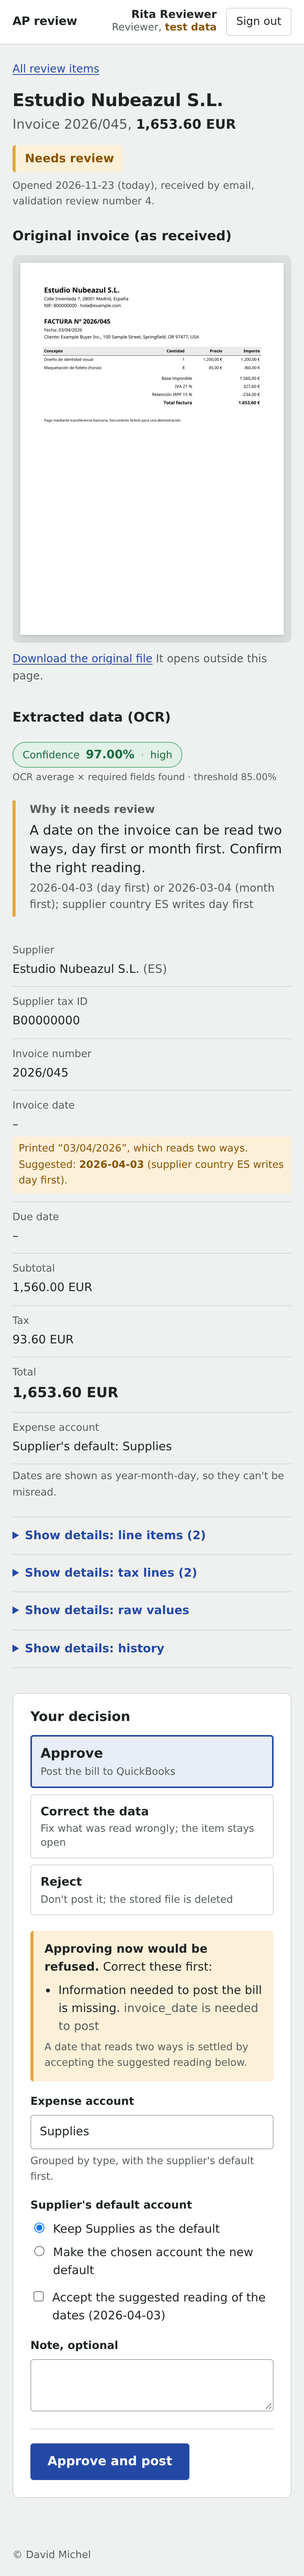
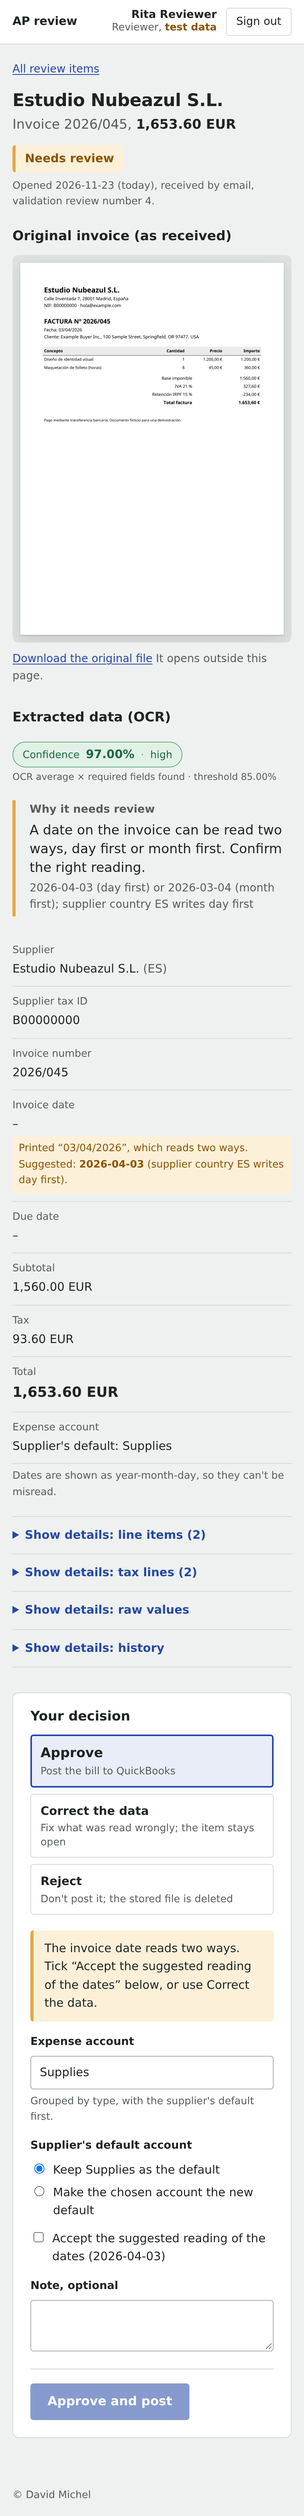
fix(review): no pre-filled account on possible fixed assets, dates accepted before approving
What the core decides, the security rules and the routes are unchanged.

- Possible fixed asset: the account starts empty ("Choose an expense
  account or a fixed asset account") instead of the supplier's default;
  the confirm button stays disabled until one is chosen. Without
  JavaScript the page refuses an approval with no account (422, nothing
  saved). One helper (forms.account_choice_required) drives both. Through
  the core's API an approval without an account still uses the default.
- Ambiguous dates: instead of "Approving now would be refused" next to an
  active button, the panel says to tick "Accept the suggested reading of
  the dates" or use Correct the data, and the button stays disabled until
  it is ticked. Without JavaScript the core refuses as before (409).
- The confirm button now waits for every field the chosen action needs
  (data-required-for), as well as for a chosen action.
- Screenshots retaken on the sample items.

diff --git a/services/core/app/web/templates/item.html b/services/core/app/web/templates/item.html
@@ -168,16 +168,22 @@
 
       {% if decide in item.actions %}
       <div class="fields fields-{{ decide }}">
-        {% if item.blockers %}
+        {# Blockers the suggested reading of the dates settles (a date left empty because it reads two ways) #}
+        {% set by_tick = inv.dates_ambiguous and inv.invoice_date_suggested %}
+        {% set date_blockers = item.blockers | selectattr("code", "equalto", "missing_field") | selectattr("field", "in", dates) | list if by_tick else [] %}
+        {% set other_blockers = item.blockers | reject("in", date_blockers) | list %}
+        {% if other_blockers %}
         <div class="note">
           <p><strong>Approving now would be refused.</strong> Correct these first:</p>
-          <ul>{% for b in item.blockers %}<li>{{ (b.code | explain).sentence }}{% if b.get("message") %} <span class="muted">{{ b.message }}</span>{% endif %}</li>{% endfor %}</ul>
-          {% if inv.dates_ambiguous and inv.invoice_date_suggested %}<p class="hint">A date that reads two ways is settled by accepting the suggested reading below.</p>{% endif %}
+          <ul>{% for b in other_blockers %}<li>{{ (b.code | explain).sentence }}{% if b.get("message") %} <span class="muted">{{ b.message }}</span>{% endif %}</li>{% endfor %}</ul>
         </div>
         {% endif %}
+        {% if date_blockers %}
+        <p class="note" id="dates-needed">The invoice date reads two ways. Tick “Accept the suggested reading of the dates” below, or use Correct the data.</p>
+        {% endif %}
         <label for="account_id">Expense account</label>
-        <select name="{{ decide }}.account_id" id="account_id" data-combobox aria-describedby="account-hint">
-          {% set chosen_account = inv.expense_account_id or (item.supplier_default_account.id if item.supplier_default_account else "") %}
+        <select name="{{ decide }}.account_id" id="account_id" data-combobox aria-describedby="account-hint"{% if choose_account %} data-required-for="{{ decide }}"{% endif %}>
+          {% set chosen_account = "" if choose_account else (inv.expense_account_id or (item.supplier_default_account.id if item.supplier_default_account else "")) %}
           {% if not chosen_account %}<option value="" selected>Choose an account</option>{% endif %}
           {% for label, group in account_groups %}
           <optgroup label="{{ label }}">
@@ -185,7 +191,7 @@
           </optgroup>
           {% endfor %}
         </select>
-        <p class="hint" id="account-hint">Grouped by type, with the supplier's default first.</p>
+        <p class="hint" id="account-hint">{% if choose_account %}Choose an expense account or a fixed asset account.{% else %}Grouped by type, with the supplier's default first.{% endif %}</p>
         <fieldset class="sub">
           <legend>Supplier's default account</legend>
           {% if item.supplier_default_account %}
@@ -197,7 +203,7 @@
           {% endif %}
         </fieldset>
         {% if inv.dates_ambiguous and inv.invoice_date_suggested %}
-        <label class="opt"><input type="checkbox" name="{{ decide }}.accept_suggested_dates" value="1"> Accept the suggested reading of the dates ({{ inv.invoice_date_suggested }})</label>
+        <label class="opt"><input type="checkbox" name="{{ decide }}.accept_suggested_dates" value="1"{% if date_blockers %} data-required-for="{{ decide }}" aria-describedby="dates-needed"{% endif %}> Accept the suggested reading of the dates ({{ inv.invoice_date_suggested }})</label>
         {% endif %}
         <label for="{{ decide }}-note">{{ "How was it confirmed? Required" if decide == "verify" else "Note, optional" }}</label>
         <textarea name="{{ decide }}.note" id="{{ decide }}-note" maxlength="1000" rows="2"></textarea>

diff --git a/services/core/app/web/static/app.js b/services/core/app/web/static/app.js
@@ -148,11 +148,18 @@ function accountCombobox(select) {
 document.addEventListener("DOMContentLoaded", () => {
   for (const select of document.querySelectorAll("select[data-combobox]")) accountCombobox(select);
 
-  // A panel without a chosen action (possible fraud: nothing is pre-selected) can't be confirmed.
-  // Without scripts the button stays enabled and the server refuses the empty choice.
+  // The confirm button waits for what the chosen action still needs: an action at all (possible
+  // fraud: nothing is pre-selected), and every field marked data-required-for="<action>" (an account
+  // to choose, the suggested dates to accept). Without scripts the button stays enabled and the
+  // server refuses what is missing.
+  const filled = (el) => (el.type === "checkbox" ? el.checked : el.value !== "");
   for (const button of document.querySelectorAll("button[data-needs-action]")) {
     const form = button.form;
-    const update = () => { button.disabled = !form.querySelector('input[name="action"]:checked'); };
+    const update = () => {
+      const chosen = form.querySelector('input[name="action"]:checked');
+      const needed = chosen ? [...form.querySelectorAll(`[data-required-for~="${chosen.value}"]`)] : [];
+      button.disabled = !chosen || !needed.every(filled);
+    };
     form.addEventListener("change", update);
     update();
   }

diff --git a/services/core/tests/test_review_page.py b/services/core/tests/test_review_page.py
@@ -466,3 +466,76 @@ def test_the_environment_defaults_to_production_and_takes_nothing_else(clean_db)
         WebSettings(
             ap_database_url=clean_db, review_listener="internal", review_origins=INTERNAL, review_environment="staging"
         )
+
+
+# =====================================================================================
+# What approving still needs: an account on a possible fixed asset, the dates accepted
+# =====================================================================================
+def account_select(page):
+    start = page.index('id="account_id"') - 60
+    return page[page.index("<select", start) : page.index("</select>", start)]
+
+
+def test_a_possible_fixed_asset_starts_with_no_account_chosen(samples):
+    c, _url, ids = samples  # Pellingham has a default account (Supplies): it isn't pre-filled here
+    page = page_of(c, ids["pellingham"])
+    select = account_select(page)
+    assert 'data-required-for="approve"' in select
+    assert '<option value="" selected>Choose an account</option>' in select
+    assert select.count("selected") == 1  # the placeholder only
+    assert "Choose an expense account or a fixed asset account." in page
+    assert '<button class="go" data-needs-action>' in page  # disabled by the script until chosen
+
+
+def test_other_items_keep_the_supplier_default_pre_filled(samples):
+    c, _url, ids = samples
+    select = account_select(page_of(c, ids["quillmoor"]))
+    assert '<option value="20" selected>Supplies</option>' in select and "data-required-for" not in select
+
+
+def test_approving_a_possible_fixed_asset_without_an_account_is_refused(samples):
+    c, url, ids = samples  # what a browser without scripts sends
+    data = {"csrf": csrf(c), "action": "approve", "approve.account_id": "", "approve.default": "keep"}
+    r = c.post(f"/items/{ids['pellingham']}", data=data)
+    assert r.status_code == 422
+    assert "Possible fixed asset: choose an expense account or a fixed asset account, then approve." in r.text
+    assert ("approve", "checked") in radios(r.text)
+    row = review_row(url, ids["pellingham"])
+    assert row["status"] == "open"
+    assert q(url, "SELECT expense_account_id FROM ap.invoices WHERE id = %s", row["invoice_id"])[0] == {
+        "expense_account_id": None
+    }
+
+
+def test_a_possible_fixed_asset_is_approved_on_the_account_chosen(samples):
+    c, url, ids = samples
+    data = {"csrf": csrf(c), "action": "approve", "approve.account_id": "40", "approve.default": "keep"}
+    assert c.post(f"/items/{ids['pellingham']}", data=data).status_code == 303
+    row = review_row(url, ids["pellingham"])
+    assert row["status"] == "approved" and row["decision"]["account_id"] == "40"
+    assert q(url, "SELECT 1 FROM ap.supplier_defaults WHERE expense_account_id = '40'") == []  # a one-off choice
+
+
+def test_ambiguous_dates_say_exactly_what_to_do(samples):
+    c, _url, ids = samples
+    page = page_of(c, ids["nubeazul"])
+    assert "Approving now would be refused" not in page
+    assert escape("Tick “Accept the suggested reading of the dates” below, or use Correct the data.") in page
+    found = re.search(r'<input type="checkbox" name="approve\.accept_suggested_dates"[^>]*>', page)
+    assert found
+    box = found.group(0)
+    assert 'data-required-for="approve"' in box and 'aria-describedby="dates-needed"' in box
+
+
+def test_ambiguous_dates_not_accepted_are_refused_and_accepted_are_approved(samples):
+    c, url, ids = samples
+    data = {"csrf": csrf(c), "action": "approve", "approve.account_id": "20", "approve.default": "keep"}
+    assert c.post(f"/items/{ids['nubeazul']}", data=data).status_code == 409  # the core's refusal
+    assert review_row(url, ids["nubeazul"])["status"] == "open"
+    r = c.post(f"/items/{ids['nubeazul']}", data=data | {"approve.accept_suggested_dates": "1"})
+    row = review_row(url, ids["nubeazul"])  # accepting a reading counts as a correction, then approved
+    assert r.status_code == 303 and row["status"] == "corrected"
+    assert q(url, "SELECT status, invoice_date::text FROM ap.invoices WHERE id = %s", row["invoice_id"])[0] == {
+        "status": "ready",
+        "invoice_date": "2026-04-03",
+    }

diff --git a/services/core/app/web/forms.py b/services/core/app/web/forms.py
@@ -21,6 +21,22 @@ class FormError(ValueError):
 
 
 ACTIONS: tuple[review.Action, ...] = get_args(review.Action)
+# Reasons for which the page asks the reviewer to pick the account themselves (no supplier default
+# pre-filled): an item that may be a fixed asset needs an explicit expense-or-asset choice
+ACCOUNT_CHOICE_REASONS = frozenset({"possible_capex"})
+NO_ACCOUNT_CHOSEN = (
+    "Possible fixed asset: choose an expense account or a fixed asset account, then approve. Nothing was saved."
+)
+
+
+def account_choice_required(item: dict[str, Any]) -> bool:
+    return bool({r["code"] for r in item["reasons"]} & ACCOUNT_CHOICE_REASONS)
+
+
+def require_account(form: FormData, item: dict[str, Any]) -> None:
+    """The page left the account empty on purpose: an approval must carry the reviewer's choice."""
+    if account_choice_required(item) and not text(form, "account_id"):
+        raise FormError(NO_ACCOUNT_CHOSEN)
 
 
 def chosen_action(form: FormData) -> review.Action:

diff --git a/services/core/app/web/main.py b/services/core/app/web/main.py
@@ -387,6 +387,7 @@ def _item_page(
         ),
         chosen=chosen,
         correctable=forms.CORRECTABLE,
+        choose_account=forms.account_choice_required(data),
         error=message.get("error"),
         done=message.get("done"),
     )
@@ -447,6 +448,7 @@ def _apply(conn: db.Conn, viewer: Viewer, review_id: int, action: review.Action,
         _, file_path = review.reject(conn, review_id, forms.rejection(form, viewer), viewer.scope)
         return file_path
     kind: Literal["approve", "verify"] = "verify" if action == "verify" else "approve"
+    forms.require_account(form, review.detail(conn, review_id, viewer.scope))
     review.approve(conn, review_id, forms.decision(form, viewer), kind, viewer.scope)
     return None
 

diff --git a/docs/review.md b/docs/review.md
@@ -59,7 +59,7 @@ A separate web process (`review-web` container) with only the browser routes. Ho
 - **Plain-language reasons:** [`app/web/reasons.py`](../services/core/app/web/reasons.py) is the only place that turns a reason code into words: a short label for the list badge, a sentence for the item page. The core's specific detail (e.g. which line costs too much) is shown under the sentence. A test scans the core's source and fails if a code has no sentence.
 - **Confidence badge** (display only, nothing stored changes): the item's confidence score (OCR page average × required fields found, the score the core routes on) as a percentage with two decimals. **Red** below the review threshold (`CONFIDENCE_THRESHOLD`, the same setting the core uses, so red always means "below the threshold"), **orange** from the threshold up to `REVIEW_CONFIDENCE_HIGH`, **green** from there. The badge also says it in words (high, close to the threshold, below the threshold), and the line under it says how the score is made and the threshold ("OCR average × required fields found · threshold 85.00%"). The raw OCR average alone is under **Show details: raw values** ("Raw OCR average"). Both values are provisional until the threshold is calibrated on the test set.
 - **One decision panel:** a single form offering only the actions the core allows on the item, **Approve** first and pre-selected. On a fraud item **nothing is pre-selected**: the fraud warning stands at the top of the panel, and the confirm button stays disabled until the reviewer picks **Verified with the supplier** or **Reject**. Without JavaScript the button can be pressed, and the server refuses a fraud submission with no action chosen, with a clear error and nothing saved. Choosing an action shows only its fields, then one confirm button. This works without JavaScript: CSS shows the chosen action's fields. The form posts every action's fields, named `<action>.<field>`. The server keeps only the chosen action's fields and decides exactly as on that action's own route (`POST /items/{id}/{action}`, kept as is). After a refused decision, the panel stays on the action tried.
-  - **Approve / Verified:** the expense account search box. Typing suggests matching accounts, grouped by type with the supplier's default first. It is keyboard-accessible: arrows to move, Enter to choose, Escape to cancel. Without JavaScript it is a plain grouped list. Then choose whether the account becomes the supplier's default ("save as default" on a first invoice, "make it the new default" later). Tick **accept the suggested dates** when the dates were ambiguous. A note is optional, and required for verification.
+  - **Approve / Verified:** the expense account search box. Typing suggests matching accounts, grouped by type with the supplier's default first. It is keyboard-accessible: arrows to move, Enter to choose, Escape to cancel. Without JavaScript it is a plain grouped list. Then choose whether the account becomes the supplier's default ("save as default" on a first invoice, "make it the new default" later). Tick **accept the suggested dates** when the dates were ambiguous: the panel says so, and the confirm button stays disabled until it is ticked (without JavaScript, the core refuses the approval as before). On a **possible fixed asset** the account is not pre-filled with the supplier's default: the reviewer chooses an expense or a fixed asset account, the button stays disabled until then, and without JavaScript the page refuses an approval with no account (422, nothing saved). The core itself is unchanged: through its API, an approval without an account still uses the supplier's default. A note is optional, and required for verification.
   - **Correct the data:** the header fields, pre-filled; only the fields actually changed are sent and recorded.
   - **Reject:** a reason is required, and the page asks for confirmation.
 - A refused decision (e.g. a non-expense account, totals still wrong) shows the core's reason, and nothing is changed.

diff --git a/README.md b/README.md
@@ -52,7 +52,7 @@ Three levels, from fastest to most realistic:
 
 | Level | What it covers | Command |
 |---|---|---|
-| Unit + integration (543) | Normalization, validation, totals, dates, duplicates, email screening, posting content and decisions, matching, review decisions, the review page's security (sign-in, lockout, sessions, CSRF, listeners, scope, document rendering, headers) and presentation (plain-language reasons for every code, confidence bands, decision panel, fraud items with no action pre-selected, the data label in the header, five sample suppliers with their own invoices), the full pipeline on a test database | `docker compose run --rm core-test` |
+| Unit + integration (549) | Normalization, validation, totals, dates, duplicates, email screening, posting content and decisions, matching, review decisions, the review page's security (sign-in, lockout, sessions, CSRF, listeners, scope, document rendering, headers) and presentation (plain-language reasons for every code, confidence bands, decision panel, fraud items with no action pre-selected, the data label in the header, five sample suppliers with their own invoices), the full pipeline on a test database | `docker compose run --rm core-test` |
 | Live provider (3) | Real Mistral OCR calls on a fictional invoice | `docker compose run --rm core-test pytest -m live` |
 | End to end (12 emails) | Gmail → n8n → core → database → Gmail labels → QuickBooks → bank matching | send the test set, then `scripts/run_e2e.sh --since <start time>` |
 
